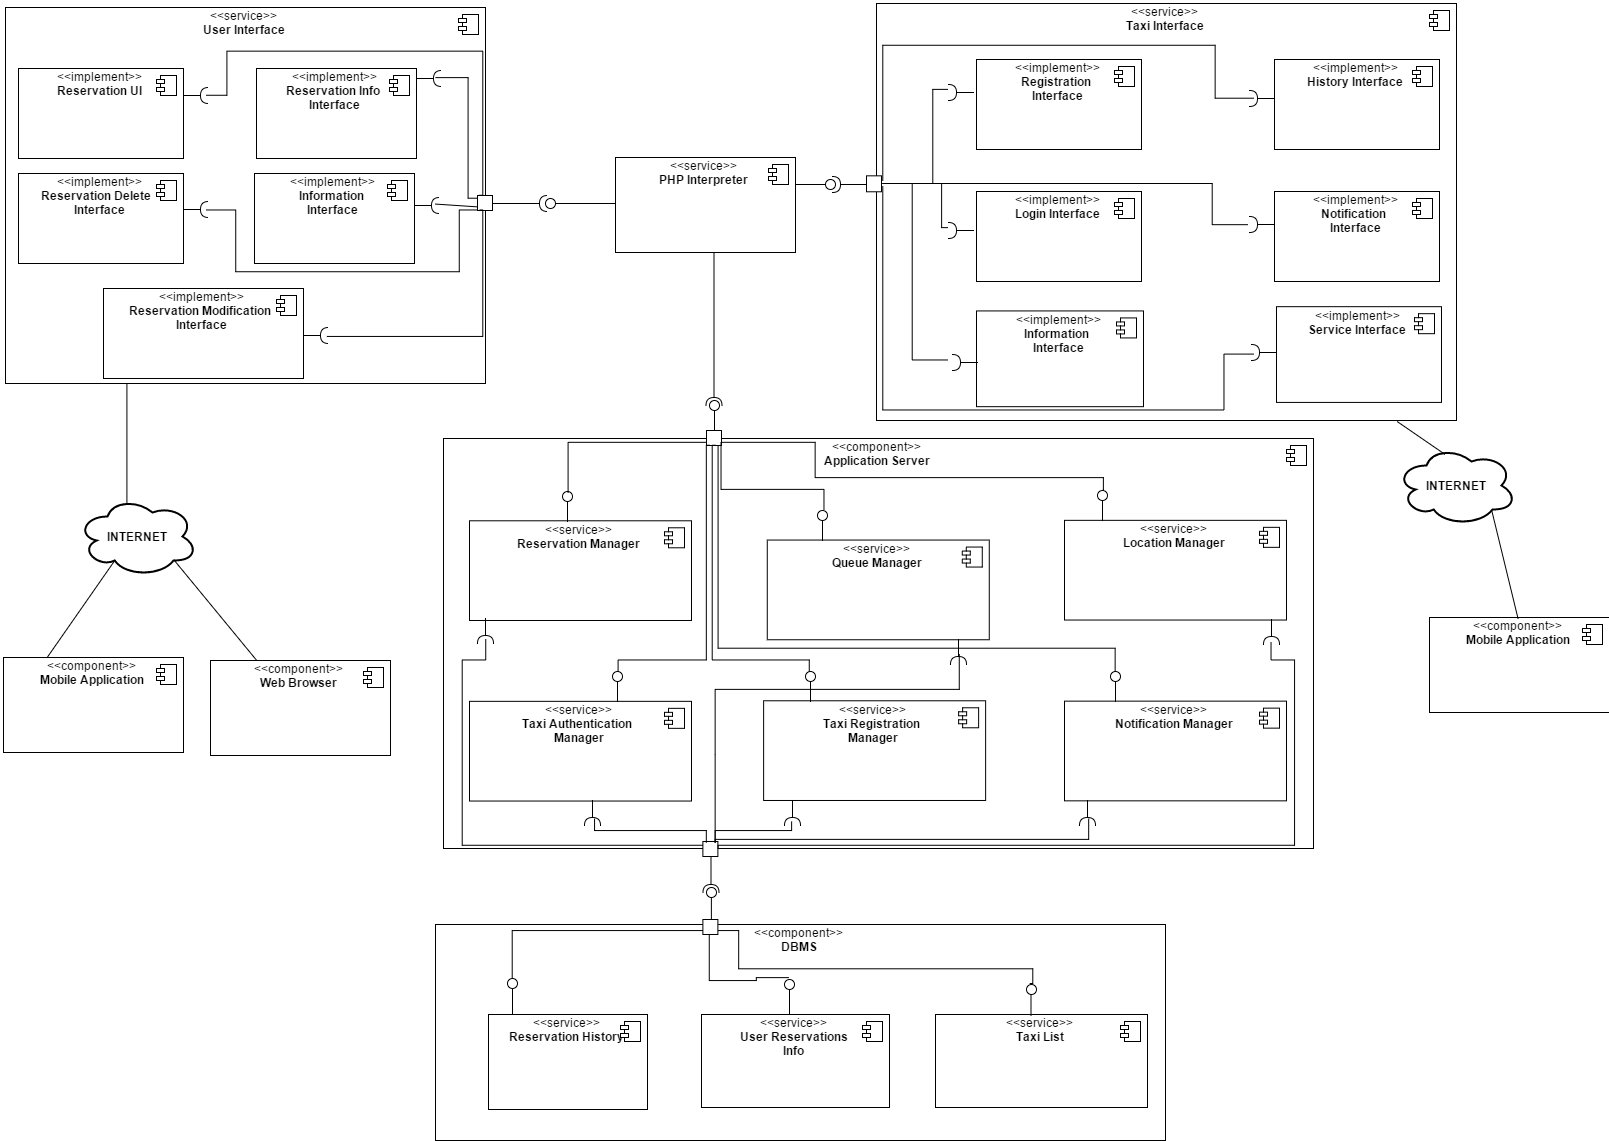
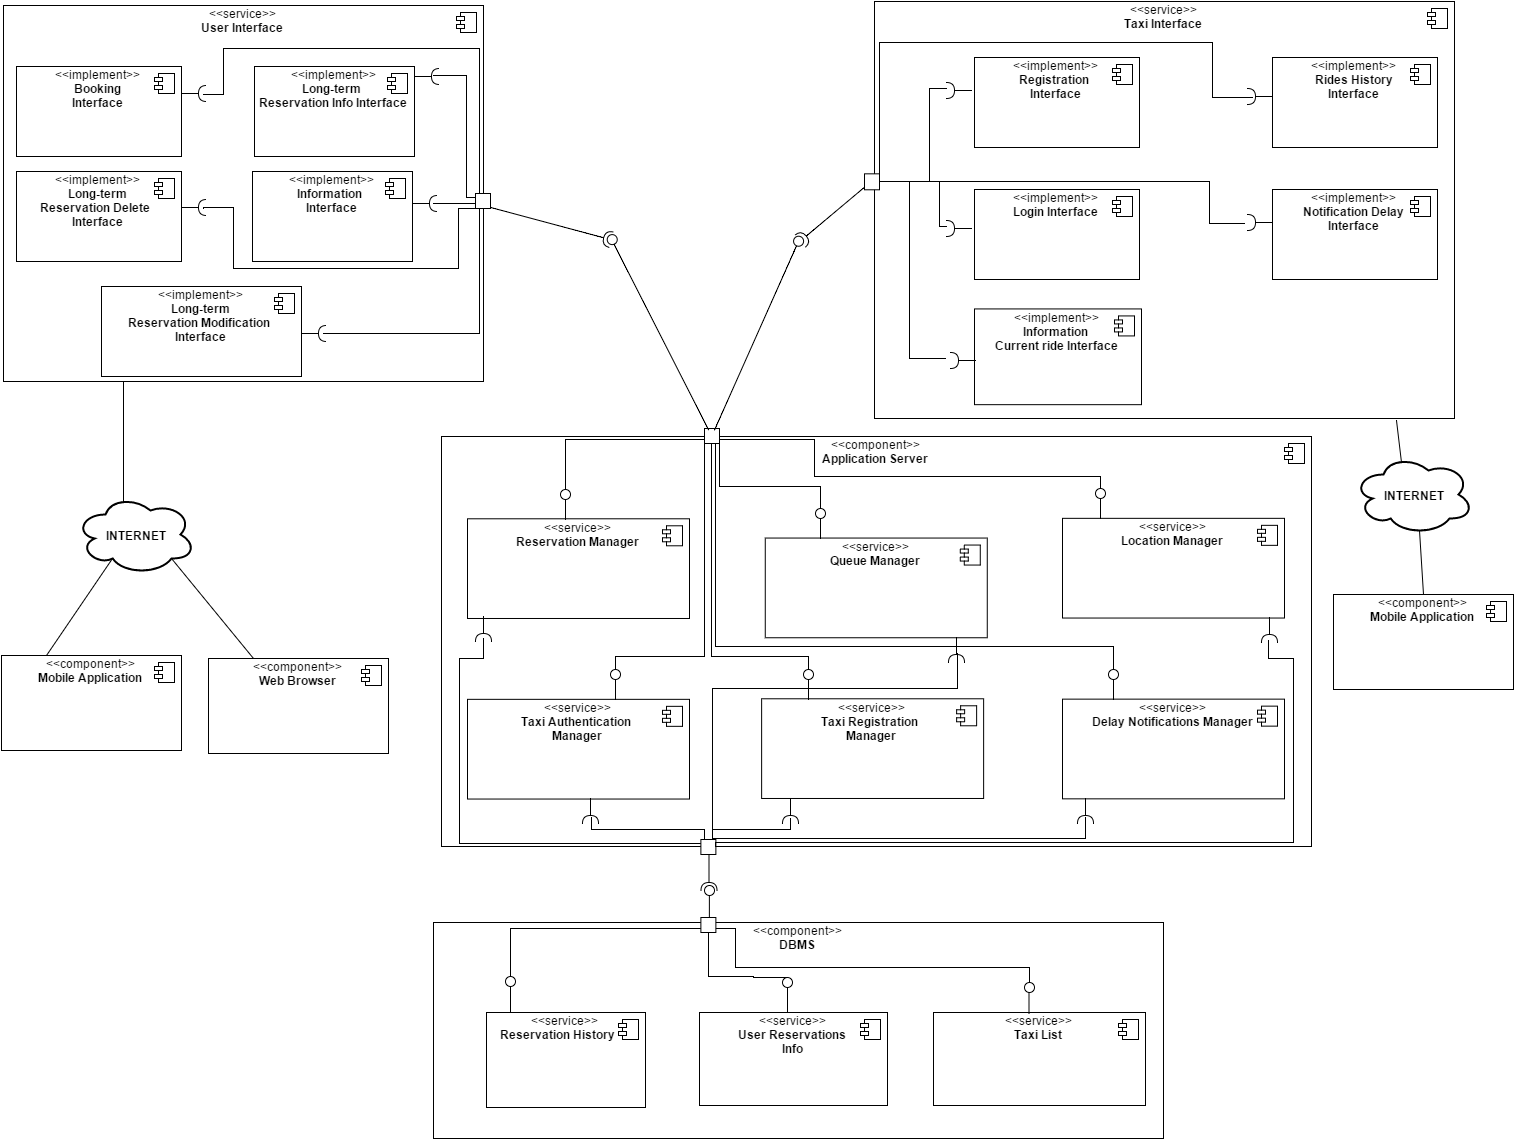
added images for dd and added infos to design

diff --git a/dd/architectural_design.tex b/dd/architectural_design.tex
@@ -14,14 +14,21 @@
 		\item users can access only the reservation interfaces where they can make a new reservation or modify or delete one.
 	\end{itemize}
 	To populate all the pages with the needed data the web server needs to ask the application server.
+	
+	The application server receives the request and elaborates it, if needed it will query the database server to retrieve or save the needed data for the request.
+	
+	The database server stores all the data received from the application server and waits for queries.
 \subsection{Component view}
 	\begin{center}
 		\includegraphics[width=0.95\textwidth]{./images/component_view.png}
 	\end{center}
 	
 	In the above diagram, through the Internet, using a web browser or, in alternative, a smartphone, users can access to their interfaces, that are about the booking, the modification of the long-term reservation, the long-term reservation information, the service information and the elimination of the long-term reservation. 
+	
 	In the case of taxis, through the Internet, only using a smartphone, they can access to their interfaces, that are about the registration, the history of the rides, the login, the notifications of delay and the information about the current ride.
-	These interfaces are populated with data, thanks to the PHP interpreter, which requests the data to the application server. This is composed of some services that manage the reservations, the queues of taxis, the locations of the users, the taxis' authentication, the taxis' registration and finally the delay notifications.
+	
+	These interfaces are populated with datacoming from the application server. This is composed of some services that manage the reservations, the queues of taxis, the locations of the users, the taxis' authentication, the taxis' registration and finally the delay notifications.
+	
 	The application server is the only component that can access to the DBMS, which is characterized by three data tables: the history of the reservations, the users' reservations and the taxis' list.
 \subsection{Deployment view}
 	\begin{center}
@@ -29,9 +36,27 @@
 	\end{center}
 	
 	In the above diagram, through the Internet, using a web browser and/or a smartphone, users and taxis can access to the server, which contains the web server. Here, there are some pages that represent which stuff, clarified in the component view description, a user or a taxi can do.
-	Thanks to the TCP/IP protocol, the server of the web one is connected to the PHP server, that contains the PHP interpreter; it lets to the pages of the web server to be populated with data. To do this, the PHP server is linked, thanks to the TCP/IP protocol, to the server, which contains the application server. This application system is composed by the same managers, clarified in the component view description. 
-	Finally, the server of the application one is linked, thanks to the TCP/IP protocol, to the database server: through this connection, the application server communicates to the PHP interpreter the data from the database, which contains the same three tables, clarified in the component view description. 
+	
+	Thanks to the TCP/IP protocol, the server of the web one is connected to the application server, that contains all the application logic, it lets to the pages of the web server to be populated with data.
+	
+	This application system is composed by the same managers, clarified in the component view description.
+	
+	Finally, the server of the application one is linked, thanks to the TCP/IP protocol, to the database server: through this connection, the application server communicates web server the data from the database, which contains the same three tables, clarified in the component view description. 
+
 \subsection{Runtime view}
+	\subsubsection{Taxi Registration}
+		Taxi registration is fully described in RASD section \textbf{3.5.2}
+		\begin{center}
+			\includegraphics[width=0.85\textwidth]{./images/Taxi_Registration.png}
+		\end{center}
+	\subsubsection{Short Term Reservation}
+		\begin{center}
+			\includegraphics[width=0.85\textwidth]{./images/Short_Term_Reservation_Complete.png}
+		\end{center}
+	\subsubsection{Long Term Reservation}
+		\begin{center}
+			\includegraphics[width=0.85\textwidth]{./images/Long_Term_Reservation_Complete.png}
+		\end{center}
 \subsection{Component interfaces}
 \subsection{Selected architectural styles and patterns}
 \subsection{Other design decisions}
